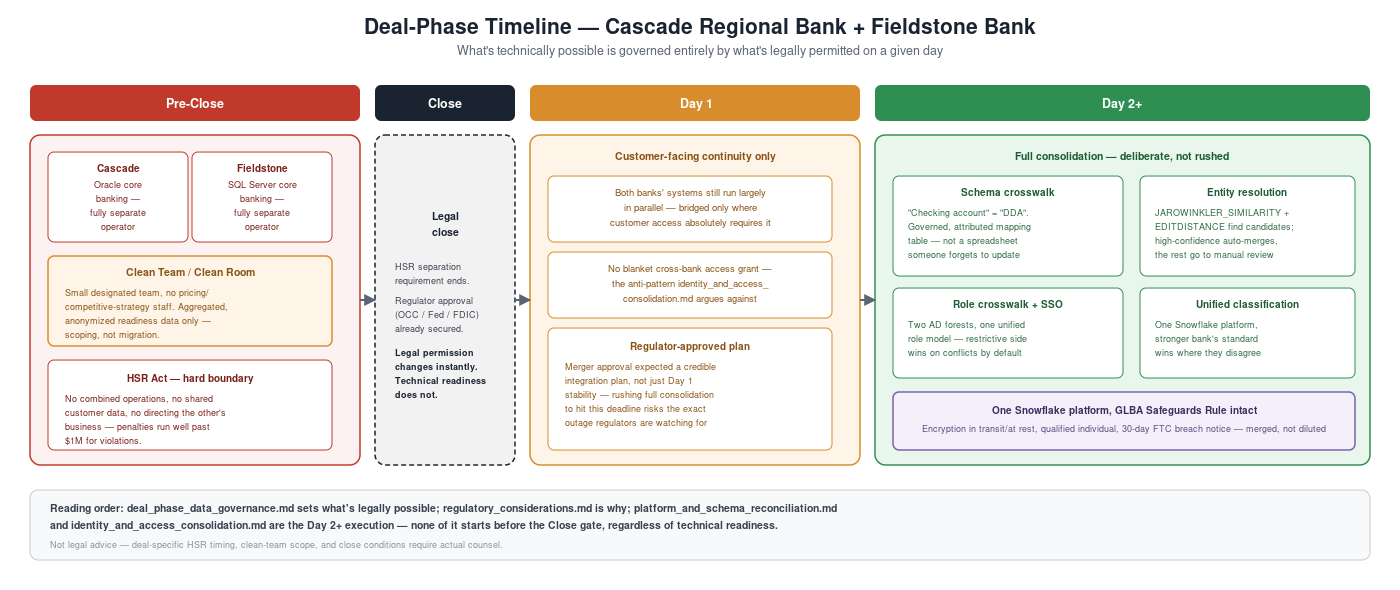
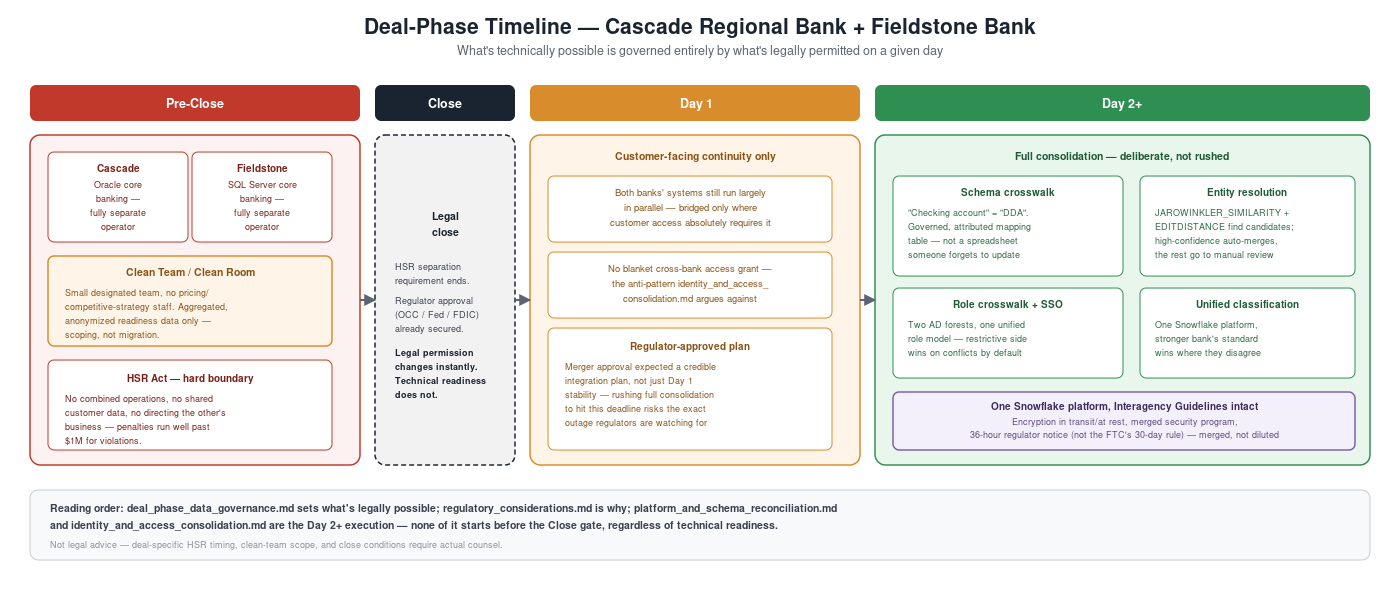
Audit part 2 fixes: GLBA jurisdiction error, SSN fuzzy-match
The big one: regulatory_considerations.md and the deal-phase diagram
wrongly applied the FTC Safeguards Rule (16 CFR Part 314) and its
30-day/500-consumer breach notice to Cascade and Fieldstone. Banks
under OCC/Fed/FDIC jurisdiction are carved out of FTC enforcement
under GLBA Section 505 — they're examined under the Interagency
Guidelines Establishing Information Security Standards instead, with
a 36-hour incident-notification clock to their primary regulator, not
the FTC's 30-day rule. Verified against the FTC's own scope statement
and the 2021 interagency rulemaking before fixing. Corrected in
regulatory_considerations.md, README.md,
identity_and_access_consolidation.md, and the deal-phase-timeline
diagram's banner text.

platform_and_schema_reconciliation.md: the entity-resolution SQL
tolerated EDITDISTANCE(ssn_last4...) <= 1, fuzzy-matching the single
most discriminating field and contradicting the doc's own
'candidates, not merges' caution. Fixed to exact-match-or-disqualify
on the SSN fragment; fuzziness stays on name and birthdate only.

README.md: Related section now lists the full current five-repo
sibling set.

Changed region(s): [[0.645, 0.6712, 0.9521, 0.7627]]

diff --git a/regulatory_considerations.md b/regulatory_considerations.md
@@ -11,11 +11,15 @@ The sibling `data_sec` project's `healthcare_hipaa_scenario.md` is a full standa
 
 ---
 
-## GLBA Safeguards Rule
+## Information Security Standards — Interagency Guidelines, Not the FTC Safeguards Rule
 
-The Gramm-Leach-Bliley Act's Safeguards Rule (16 CFR Part 314) is the data-security-specific piece of GLBA that both Cascade and Fieldstone are independently subject to today, and that the merged entity remains subject to afterward — consolidation doesn't create a new compliance obligation, but it does mean two separately-compliant information security programs have to become one, and gaps between them (one bank stronger on a given control than the other) need to be resolved toward the stronger standard, not averaged.
+Worth correcting a natural but wrong assumption directly, since it's the kind of error this doc explicitly warns against elsewhere in this repo: GLBA §505 splits data-security enforcement by regulator, and the FTC's Safeguards Rule (16 CFR Part 314) — the version most commonly cited when people say "GLBA data security" — applies specifically to *non-bank* financial institutions the FTC otherwise has no jurisdiction over (mortgage companies, non-bank lenders, payday lenders, and similar). Cascade and Fieldstone, as chartered banks, are examined by their primary federal banking regulator instead — the OCC, the Federal Reserve, or the FDIC, depending on charter — under the **Interagency Guidelines Establishing Information Security Standards** (codified as an appendix to each regulator's own rules), not the FTC Safeguards Rule. This split is structural, not a recent change, and it governs both who enforces and which specific requirements apply.
 
-Requirements directly relevant to this repo's consolidation work: a designated "qualified individual" overseeing the security program (a role that has to be decided for the merged entity, not assumed to default to whichever bank's person held it before); written risk assessments, which `deal_phase_data_governance.md`'s post-close discovery work directly feeds; encryption of customer information in transit and at rest — a concrete requirement for `platform_and_schema_reconciliation.md`'s Oracle-to-Snowflake and SQL Server-to-Snowflake extraction pipelines specifically, not just the steady-state platform; and breach notification to the FTC within 30 days of discovery for incidents affecting 500 or more consumers — a timeline worth naming alongside HIPAA's 60-day rule in the sibling project, since the two frameworks genuinely differ here and conflating them would be a real, checkable error.
+The Interagency Guidelines require substantively similar things to the FTC rule — a comprehensive written information security program covering administrative, technical, and physical safeguards, board-level involvement and reporting, risk assessment, and oversight of service-provider arrangements — but they're not identical in structure or terminology, and consolidation work should cite the framework the banks are actually examined against, not the more commonly-known FTC version. Two separately-compliant Interagency Guidelines programs have to become one merged program post-close, following the same "resolve toward the stronger standard" logic where the two banks' programs differ — that reasoning holds regardless of which framework applies, and `deal_phase_data_governance.md`'s post-close discovery work is what a real risk assessment for the merged program would draw on.
+
+**Incident notification is where the two frameworks diverge most concretely, and it's the detail most worth getting right**: banking organizations operate under the Computer-Security Incident Notification Rule (effective 2022), which requires notifying the bank's primary federal regulator within **36 hours** of determining a "notification incident" has occurred — a materially different, much faster clock than the FTC Safeguards Rule's 30-day/500-consumer threshold that applies to non-bank financial institutions, and a different clock again from HIPAA's 60-day rule in the sibling project. All three are real, all three are different, and conflating any of them is the exact class of error worth naming explicitly rather than assuming "financial services" and "healthcare" each have one interchangeable timeline.
+
+Encryption of customer information in transit and at rest remains a real, concrete requirement under the Interagency Guidelines' technical-safeguards component — directly relevant to `platform_and_schema_reconciliation.md`'s Oracle-to-Snowflake and SQL Server-to-Snowflake extraction pipelines specifically, not just the steady-state platform.
 
 ---
 
@@ -34,4 +38,6 @@ Both requirements above are why `deal_phase_data_governance.md`'s sequencing mat
 ## Sources
 
 - Internal: `deal_phase_data_governance.md`, `platform_and_schema_reconciliation.md`; `soc2_csf_compliance_crosswalk.md`, `healthcare_hipaa_scenario.md` (sibling repo `data_sec`, for the HIPAA breach-notification timeline comparison)
-- [Safeguards Rule — Federal Trade Commission](https://www.ftc.gov/legal-library/browse/rules/safeguards-rule)
+- [Interagency Guidelines Establishing Information Security Standards — 12 CFR Appendix B to Part 30 (eCFR)](https://www.ecfr.gov/current/title-12/chapter-I/part-30/appendix-Appendix%20B%20to%20Part%2030)
+- [Computer-Security Incident Notification Requirements for Banking Organizations — Federal Register](https://www.federalregister.gov/documents/2021/11/23/2021-25510/computer-security-incident-notification-requirements-for-banking-organizations-and-their-bank)
+- [Safeguards Rule — Federal Trade Commission](https://www.ftc.gov/legal-library/browse/rules/safeguards-rule) (scope note: applies to non-bank financial institutions, not Cascade or Fieldstone directly — cited here only to draw the contrast)

diff --git a/platform_and_schema_reconciliation.md b/platform_and_schema_reconciliation.md
@@ -65,16 +65,17 @@ SELECT
     f.customer_id  AS fieldstone_id,
     c.full_name,
     f.full_name,
-    JAROWINKLER_SIMILARITY(c.full_name, f.full_name) AS name_similarity,
-    EDITDISTANCE(c.ssn_last4, f.ssn_last4) AS ssn_tail_distance
+    JAROWINKLER_SIMILARITY(c.full_name, f.full_name) AS name_similarity
 FROM RAW.CASCADE_CUSTOMERS c
 JOIN RAW.FIELDSTONE_CUSTOMERS f
     ON JAROWINKLER_SIMILARITY(c.full_name, f.full_name) > 85
     AND c.date_of_birth = f.date_of_birth
-WHERE EDITDISTANCE(c.ssn_last4, f.ssn_last4, 1) <= 1;
+    AND c.ssn_last4 = f.ssn_last4;  -- exact match or disqualify, never fuzzy
 ```
 
-This produces candidate matches, not confirmed ones — a similarity score above a threshold is a worklist for review, not an automatic merge. Two customers who happen to share a birthdate and a similar name are a false positive a fully automated pipeline would silently get wrong, and a wrongly-merged customer record at a bank is a materially worse outcome than a wrongly-merged record almost anywhere else in this portfolio, given the direct tie to account access and financial data. High-confidence matches can merge automatically; everything else routes to manual review before the two records become one.
+Fuzziness belongs on the name, not on the SSN fragment — a name has legitimate reasons to vary between two records (a maiden name, a middle initial, a spelling variant), an SSN digit doesn't. Tolerating an edit-distance-1 difference on `ssn_last4` would treat two different people's identifiers as a near-match on the one field that's supposed to be the most discriminating signal available, which is backwards: it should exact-match-or-disqualify, full stop, while name and birthdate carry the actual fuzziness.
+
+This produces candidate matches, not confirmed ones — a similarity score above a threshold is a worklist for review, not an automatic merge. Two customers who happen to share a birthdate, a similar name, and the same SSN tail are a real candidate, not a certainty, and a wrongly-merged customer record at a bank is a materially worse outcome than a wrongly-merged record almost anywhere else in this portfolio, given the direct tie to account access and financial data. High-confidence matches can merge automatically; everything else routes to manual review before the two records become one.
 
 ---
 

diff --git a/README.md b/README.md
@@ -7,7 +7,7 @@ A post-merger data platform consolidation reasoning framework for two regional b
 
 This is a **sibling project to [`data_sec`](https://github.com/Shadoe-42/data_sec), [`db_migration`](https://github.com/Shadoe-42/db_migration), [`finops_remediation`](https://github.com/Shadoe-42/finops_remediation), [`cloud_retrofit`](https://github.com/Shadoe-42/cloud_retrofit), and [`dc_decomm`](https://github.com/Shadoe-42/dc_decomm)**, with two new fictional entities — **Cascade Regional Bank** (the acquirer) and **Fieldstone Bank** (the target) — rather than Meridian, Solstice, or Ironwood. M&A needs two companies becoming one, and the financial-services framing is deliberate: bank and financial-firm consolidation is real, current market activity, not an arbitrary choice of industry.
 
-As with the rest of this portfolio: real technology, fictional companies. Every tool and regulation referenced (Snowflake's native fuzzy-matching functions, the GLBA Safeguards Rule, the Hart-Scott-Rodino Act) is real and current as of this writing; Cascade, Fieldstone, and their merger are not. This doc set is **not legal advice** — deal-specific antitrust and regulatory guidance requires actual counsel, not a reference architecture repo.
+As with the rest of this portfolio: real technology, fictional companies. Every tool and regulation referenced (Snowflake's native fuzzy-matching functions, the Interagency Guidelines Establishing Information Security Standards, the Hart-Scott-Rodino Act) is real and current as of this writing; Cascade, Fieldstone, and their merger are not. This doc set is **not legal advice** — deal-specific antitrust and regulatory guidance requires actual counsel, not a reference architecture repo.
 
 ## Structure
 
@@ -15,15 +15,19 @@ As with the rest of this portfolio: real technology, fictional companies. Every 
 |---|---|
 | `deal_phase_timeline_hld.svg` / `.png` | Architecture diagram — pre-close through Day 2+, with the HSR legal boundary drawn explicitly between what's technically possible and what's legally permitted |
 | `deal_phase_data_governance.md` | The constraint that governs everything else — pre-close antitrust/clean-room restrictions on data sharing between two still-separate competitors, versus what's possible after legal close, and Day 1 readiness versus Day 2+ integration |
-| `regulatory_considerations.md` | What's genuinely different about bank data — the GLBA Safeguards Rule and banking regulator merger approval, kept proportionate rather than a full compliance crosswalk repeat |
+| `regulatory_considerations.md` | What's genuinely different about bank data — the Interagency Guidelines Establishing Information Security Standards (not the FTC Safeguards Rule, a common misapplication) and banking regulator merger approval, kept proportionate rather than a full compliance crosswalk repeat |
 | `platform_and_schema_reconciliation.md` | The technical core: extracting from Cascade's Oracle and Fieldstone's SQL Server core banking systems, reconciling schemas that represent the same products differently, and resolving customers who bank at both institutions under unrelated IDs |
 | `identity_and_access_consolidation.md` | Merging two IAM/AD models into one, entitlement reconciliation, and why "grant everyone access to everything" is the wrong shortcut even temporarily |
 
 ## Related
 
+Sibling repos in the same portfolio, all reusing or extending `data_sec`'s architecture rather than duplicating it:
+
 - [`data_sec`](https://github.com/Shadoe-42/data_sec) — the classification and IAM patterns this consolidation reconciles two banks' independent versions of
 - [`db_migration`](https://github.com/Shadoe-42/db_migration) — the extraction mechanics for Oracle and SQL Server this project builds on rather than re-deriving
+- [`finops_remediation`](https://github.com/Shadoe-42/finops_remediation) — sibling scenario, same portfolio
 - [`cloud_retrofit`](https://github.com/Shadoe-42/cloud_retrofit) — sibling scenario; the over-broad-access failure mode referenced in `identity_and_access_consolidation.md`
+- [`dc_decomm`](https://github.com/Shadoe-42/dc_decomm) — sibling scenario, same portfolio
 
 ## License
 

diff --git a/identity_and_access_consolidation.md b/identity_and_access_consolidation.md
@@ -11,7 +11,7 @@ Two banks means two Active Directory forests, two IAM models, two sets of entitl
 
 ## The Anti-Pattern: Grant Everyone Access to Everything
 
-Under deadline pressure to hit Day 1 readiness (`deal_phase_data_governance.md`), the fastest way to avoid access-related outages is to broadly grant both banks' staff access to both banks' systems and sort out the entitlement model properly later. This is worth naming directly as the wrong answer, not a shortcut worth taking even temporarily: it's a direct GLBA Safeguards Rule violation in progress (access controls scaled to actual need, not blanket-granted), and it's the specific failure mode `cloud_retrofit`'s IAM Access Analyzer findings already demonstrated elsewhere in this portfolio — over-broad access granted under time pressure doesn't get cleaned up later, it becomes the new normal until an audit or an incident finds it.
+Under deadline pressure to hit Day 1 readiness (`deal_phase_data_governance.md`), the fastest way to avoid access-related outages is to broadly grant both banks' staff access to both banks' systems and sort out the entitlement model properly later. This is worth naming directly as the wrong answer, not a shortcut worth taking even temporarily: it's a direct violation of the Interagency Guidelines Establishing Information Security Standards in progress (access controls scaled to actual need, not blanket-granted) — the framework Cascade and Fieldstone are actually examined under as banks, not the FTC Safeguards Rule, and it's the specific failure mode `cloud_retrofit`'s IAM Access Analyzer findings already demonstrated elsewhere in this portfolio — over-broad access granted under time pressure doesn't get cleaned up later, it becomes the new normal until an audit or an incident finds it.
 
 The correct default is closer to the opposite: nobody gets access to the other bank's systems on Day 1 beyond what specific, identified roles genuinely require for customer-facing continuity, with every exception explicitly justified and time-bounded rather than granted as a blanket policy.
 